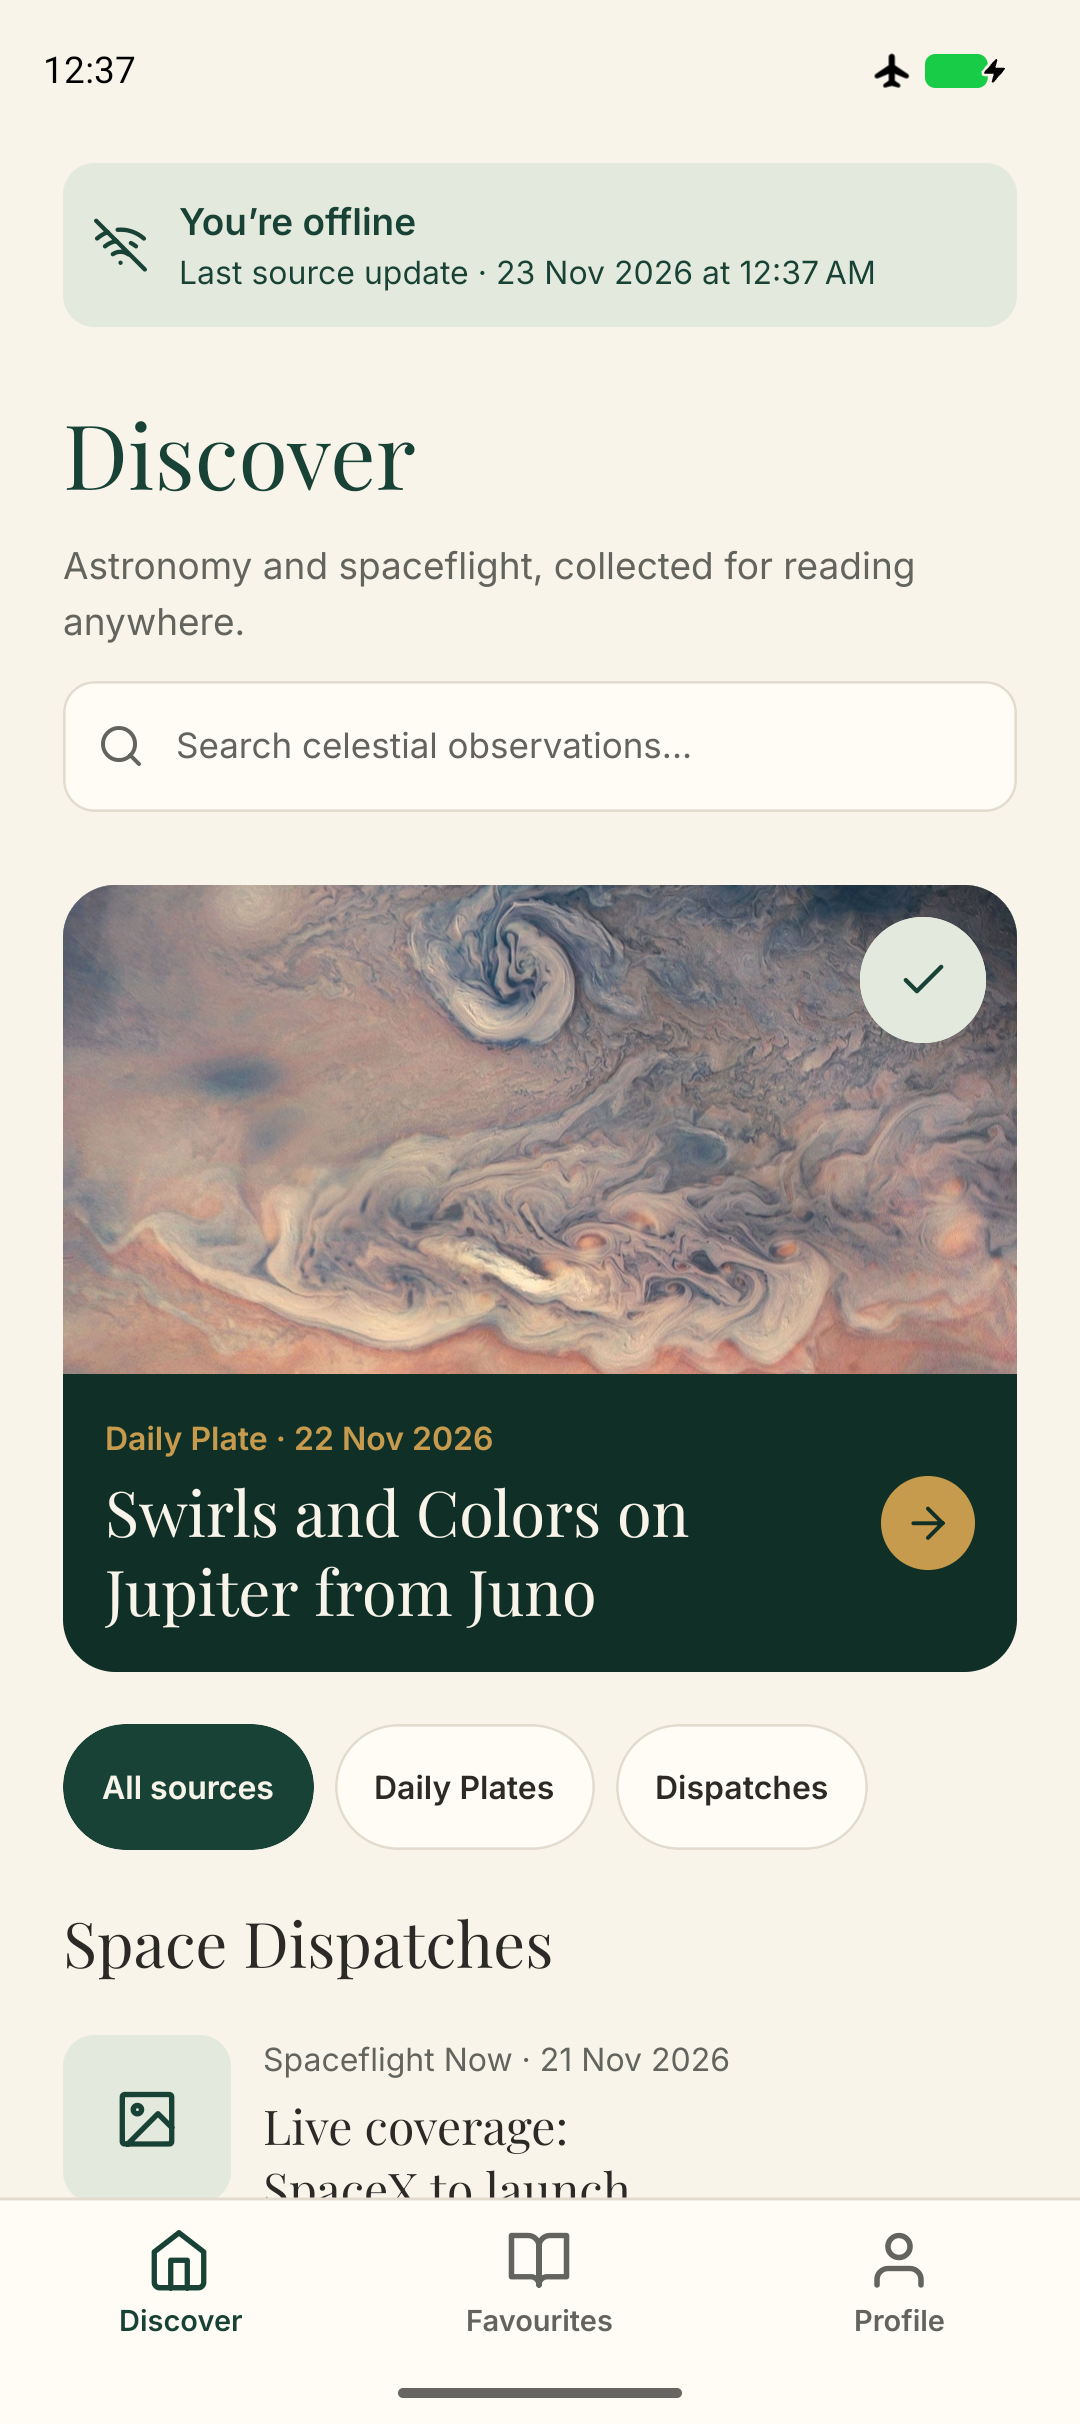
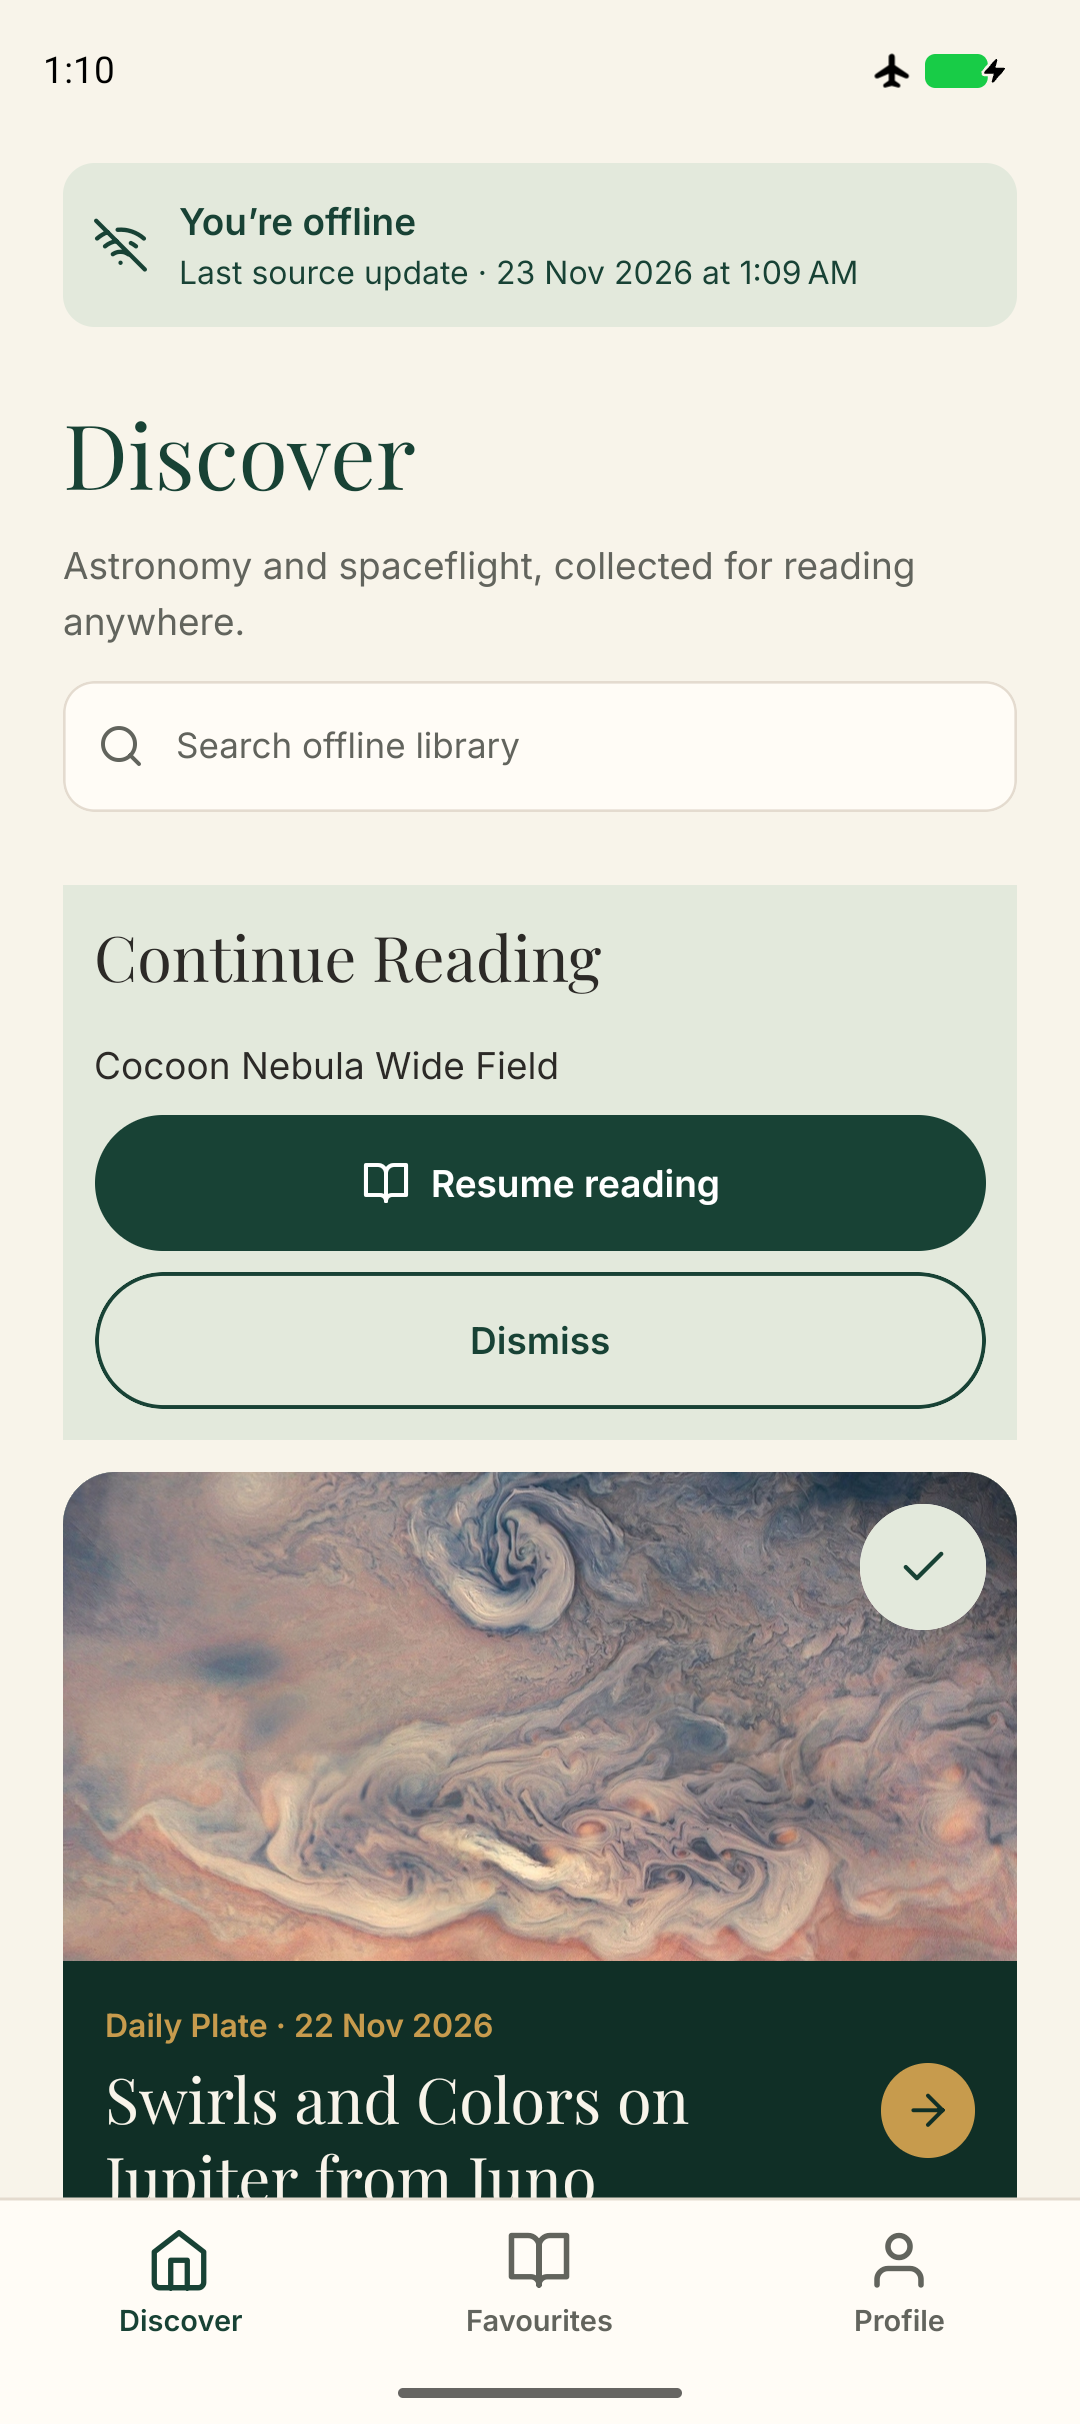
docs(release): record Smart Reading verification and screenshots

diff --git a/docs/TEST_PLAN.md b/docs/TEST_PLAN.md
@@ -2,7 +2,7 @@
 
 ## Automated checks
 
-Run lint, TypeScript and Jest after a clean `npm ci`. The 57 checks exercise form validation, credential-free Redux actions, local session restore, token refresh, route validation, source normalization, SQLite migration and rollback, source-level retries, media status, account ownership, and note editing and search.
+Run lint, TypeScript and Jest after a clean `npm ci`. The 60 checks exercise form validation, credential-free Redux actions, local session restore, token refresh, route validation, source normalization, SQLite migration and rollback, source-level retries, media status, account ownership, checkpoints, and search. The public archive search test uses 1,000 records, checks the match count and 100-item display limit, and enforces a 1.5-second bound on the repository call in the test environment.
 
 The repository integration tests use a real SQLite database through Node's driver and an adapter with separate read and write connections. The Android build is separately responsible for exercising Expo SQLite, SecureStore, FileSystem, NetInfo, and React Native UI.
 
@@ -14,8 +14,11 @@ The repository integration tests use a real SQLite database through Node's drive
 4. Open the saved photo from the Shelf. Verify the real image and note render. Edit the note and search for it with airplane mode still active.
 5. Restore connectivity and check the two source dates in Profile without pressing Refresh. Confirm the three saves persist.
 6. Check Discover at 320, 360, 390, and 430 dp with larger text. Check sign-out across process death. Review the app with a screen reader and system reduced motion on a supported test device.
+7. Browse to 2014-09-18, scroll into the article, return to Discover and confirm the Continue Reading card. Force-stop in airplane mode. Check that Resume Reading returns to the article text and that searching for `cocoon` finds the archived plate. At the end of the article, mark it as read and check that the card disappears on returning.
+8. While offline, open an uncached date such as 1995-06-16. Confirm Details shows that the plate is unavailable offline. Restore connectivity with Details still open and check that the article loads without an extra action.
+9. Measure five cached airplane-mode cold launches from the Android launch command to visible Discover content. Compare the median with the 2.5-second target. Ask three students to find a dated plate, resume reading after reconnect or relaunch, then find a saved note. Record task completion, mistakes and comments.
 
-## Evidence from 23 November 2026
+## Pre-Smart Reading evidence from 23 November 2026
 
 - Clean npm installation succeeded. Final ESLint, strict TypeScript, and 57 Jest tests passed.
 - Live NASA list and direct date requests and the Spaceflight News list returned HTTP 200. The release app signed in through DummyJSON and displayed both sources.
@@ -23,3 +26,14 @@ The repository integration tests use a real SQLite database through Node's drive
 - The Pixel 9 API 37 emulator verified fresh offline sign-in and a force-stopped offline relaunch. Three bookmarks, a downloaded Jupiter image, and a private note reopened after reinstall and process termination. The note was then edited and searched in airplane mode.
 - The two source timestamps advanced automatically after reconnecting. Discover rendered at 320, 360, 390, and 430 dp at 1.3× font scale. Sign-out persisted after another force-stop. The reduced-motion bookmark path passed a focused test. A full screen-reader pass remains a manual device check.
 - Actual emulator screenshots are in [the screenshot directory](screenshots). The iOS bundle exported. Native iOS device verification is pending because the installed simulator runtimes were unavailable.
+
+## Smart Reading candidate from 23 November 2026
+
+- The Pixel 9 API 37 emulator upgraded the installed release and retained three bookmarks. NASA returned the plate for 2014-09-18. After an airplane-mode force-stop, Discover showed its offline banner, Continue Reading reopened at the stored paragraph, and local search found the cached plate. The previously bookmarked Jupiter article also showed its field note offline.
+- An uncached 1995-06-16 lookup showed the offline state. After reconnection, the open reader automatically displayed *Neutron Star Earth*.
+- Discover, Field Shelf, Details, the note editor and Profile were checked on the emulator at 320, 360, 390, and 430 dp with 1.3× text. The initial width checks used the build before the change to parallel startup.
+- The optimized ARM64 Android build and Android lint succeeded. A locally QA-signed APK was installed on the emulator. The iOS bundle also exported.
+- The final APK reopened Discover and all three bookmarks in airplane mode. Offline search found the Cocoon Nebula plate and **Mark as read** cleared its checkpoint.
+- Five offline force-stop launches on the final signed APK reached visible cached Discover in 3.14, 3.95, 3.63, 2.47 and 3.10 seconds. The median of 3.14 seconds exceeded the 2.5-second target on this emulator. Timing started at the launch command and ended at the first screenshot that matched the cached Discover view.
+- The Smart Reading demo runs for 169.02 seconds. The 720p H.264 video and AAC audio decoded successfully. See [the demo script](DEMO_SCRIPT.md).
+- TalkBack's focus indicator reached Discover search and the Details back control. Spoken announcements and a full screen-reader flow remain unverified. Native iOS verification and the three student walkthroughs are also open.

diff --git a/docs/DEMO_SCRIPT.md b/docs/DEMO_SCRIPT.md
@@ -1,22 +1,20 @@
-# COSMOLOG narrated demo
+# COSMOLOG Smart Reading demo
 
-Target duration **2 min 50 sec**. Record the app in an installed build with Metro stopped. Start online with the sign-in screen and an eligible APOD image available. Use the public demo account.
+Target duration **2 min 49 sec**. Use the self-contained Android build with Metro stopped. Use the public DummyJSON demo account and verify the downloaded image has an available offline status before starting.
 
 | Time | Screen or code | Narration cue |
 | --- | --- | --- |
-| 0:00–0:12 | Sign in and open Discover | COSMOLOG is a space and science archive for IN3210. Sign-in uses DummyJSON and the app reads NASA and Spaceflight News. |
-| 0:12–0:25 | Open Daily Plate, save, wait for the image status | Details takes a source and an ID. Saving commits the record first. The image reports when a durable copy is ready. |
-| 0:25–0:37 | Add a short note and open the Shelf | The Field Shelf keeps this discovery and my note together. Both are available on this device. |
-| 0:37–0:53 | Show airplane mode and a force-stop, reopen from the launcher | This is a cold launch with the network off. A previously verified session opens the last collection from SQLite. |
-| 0:53–1:05 | Open the saved record and note, then reconnect | The downloaded image and note still open. When the device reconnects, sources refresh automatically. |
-| 1:05–1:25 | `app/_layout.tsx` and `src/navigation/types.ts` | Expo Router guards tabs and the Details stack. The route only carries the two identifiers, which are validated. |
-| 1:25–1:45 | `src/services/storage/secureStore.ts` and `src/store/slices/authSlice.ts` | SecureStore holds the verified identity and tokens. DummyJSON can refresh or revoke the session when online. |
-| 1:45–2:10 | `src/store/archiveLifecycle.ts` and `src/database/repositories/discoveryRepository.ts` | SQLite hydration happens first. Redux Toolkit thunks coordinate refresh, and each source commits its list and successful timestamp in one transaction. |
-| 2:10–2:31 | `src/database/repositories/favouritesRepository.ts` and `src/services/storage/imageStorage.ts` | Bookmarks belong to an account. Notes update locally, and image files are validated before the database calls them available. |
-| 2:31–2:50 | `tests/sqliteRepositories.test.ts`, `tests/feedSync.test.ts`, and final test results | The tests exercise migration, account ownership, rollback on a bad write, and the cases where only one source is available. |
-
-Explain the decisions in your own words. Keep the final video below three minutes and separately verify the upload plays with audio.
+| 0:00–0:11 | Sign in and Discover | Accounts sign in through DummyJSON. Discover collects NASA astronomy plates and Spaceflight News dispatches. |
+| 0:11–0:22 | Daily Plate and Field Shelf | Saving commits the bookmark first. Eligible images download separately. |
+| 0:22–0:31 | Browse by date and the Cocoon Nebula plate | Choose 2014-09-18 to open an archived NASA plate. The reader keeps its source and credit. |
+| 0:31–0:53 | Airplane-mode cold launch, Continue Reading and offline search | The local archive survives a restart. Resume Reading returns to the saved paragraph. Searching for Cocoon finds the plate offline. |
+| 0:53–1:04 | Field note with the offline banner | The saved note opens and can be edited offline. |
+| 1:04–1:24 | `app/_layout.tsx` | Expo Router separates authentication, the tabs and Details. Details takes the source and ID. |
+| 1:24–1:43 | `src/services/storage/secureStore.ts` | SecureStore restores a verified session offline. DummyJSON can refresh or revoke it when online. |
+| 1:43–2:06 | `src/database/repositories/discoveryRepository.ts` | Redux Toolkit coordinates refresh. SQLite commits each source list and timestamp together. Reconnect can recover an open uncached plate. |
+| 2:06–2:29 | `src/database/repositories/readingRepository.ts` | SQLite stores the paragraph index and article fingerprint per account. The reader waits for layout before restoring it. |
+| 2:29–2:49 | `tests/sqliteRepositories.test.ts` | Sixty checks include migrations, account ownership and a thousand-record archive search. The installed Android build was separately exercised in airplane mode. |
 
 ## Local review cut
 
-The generated local review cut is `dist/cosmolog-demo.mp4`. It combines actual Android emulator footage with a code walkthrough and synthetic narration. The export was checked at 170.02 seconds with playable H.264 video and AAC audio. The student can review or replace the narration before submission.
+`dist/cosmolog-smart-reading-demo.mp4` uses Android emulator footage, screenshots, code excerpts, and synthetic narration. The student can use these cues to explain the decisions in their own words. Verify the uploaded submission plays with audio and stays under three minutes.

diff --git a/README.md b/README.md
@@ -54,6 +54,7 @@ NASA APOD and Spaceflight News retain the original publication link, available c
 - [DummyJSON authentication](https://dummyjson.com/docs/auth)
 - [NASA Earthrise](https://science.nasa.gov/resource/apollo-8s-iconic-earthrise/)
 - [Jupiter image credits](https://science.nasa.gov/wp-json/wp/v2/apod-basic/261122) · NASA/Juno/SwRI/MSSS, processing by Matt Brealey and Seán Doran · [CC BY-NC 3.0](https://creativecommons.org/licenses/by-nc/3.0/)
+- [Cocoon Nebula Wide Field](https://apod.nasa.gov/apod/ap140918.html) · Federico Pelliccia
 
 ## Screenshots
 
@@ -61,9 +62,13 @@ NASA APOD and Spaceflight News retain the original publication link, available c
 | --- | --- | --- |
 | ![Sign in](docs/screenshots/01-login.png) | ![Discover](docs/screenshots/02-discover.png) | ![Details](docs/screenshots/03-details.png) |
 
-| Field Shelf | Cold launch offline | Saved image and note |
+| Field Shelf | Cold launch offline | Offline field note |
 | --- | --- | --- |
 | ![Field Shelf](docs/screenshots/04-shelf.png) | ![Offline Discover](docs/screenshots/05-offline-banner.png) | ![Offline Field Journal](docs/screenshots/06-journal-offline.png) |
+
+| Plate opened by date | Continue Reading | Offline archive search |
+| --- | --- | --- |
+| ![Cocoon Nebula Wide Field](docs/screenshots/07-browse-by-date.png) | ![Continue Reading card](docs/screenshots/08-continue-reading.png) | ![Offline search results](docs/screenshots/09-offline-search.png) |
 
 ## Architecture and state
 
@@ -76,7 +81,7 @@ flowchart LR
   State --> Session[DummyJSON and SecureStore]
   Sources --> Repositories[SQLite repositories]
   State --> Repositories
-  Repositories --> SQLite[(Snapshots, favourites, notes)]
+  Repositories --> SQLite[(Snapshots, favourites, notes, reading checkpoints)]
   State --> Files[Durable image files]
 ```
 
@@ -97,4 +102,4 @@ npm run typecheck
 npm test -- --runInBand
 ```
 
-Jest exercises auth lifecycle, real SQLite migrations and rollback through Node's SQLite driver, reconnect and source failure behavior, route validation, media normalization, and the journal. A GitHub Actions workflow repeats the JS checks on a clean install. The verified Android run covered cold airplane-mode restore, editing and searching the note offline, automatic reconnect, four screen widths at 1.3× font size, and durable sign-out. See [device scenarios and evidence](docs/TEST_PLAN.md), the [demo script](docs/DEMO_SCRIPT.md), and [AI usage](AI_USAGE.md).
+Jest exercises auth lifecycle, real SQLite migrations and rollback through Node's SQLite driver, reconnect and source failure behavior, route validation, media normalization, checkpoints, and archive search. A GitHub Actions workflow repeats the JavaScript checks on a clean install. The Smart Reading Android run verified paragraph restore and local search after an airplane-mode cold launch, date lookup, and automatic recovery for an uncached plate on reconnect. See [device scenarios and evidence](docs/TEST_PLAN.md), the [demo script](docs/DEMO_SCRIPT.md), and [AI usage](AI_USAGE.md).
